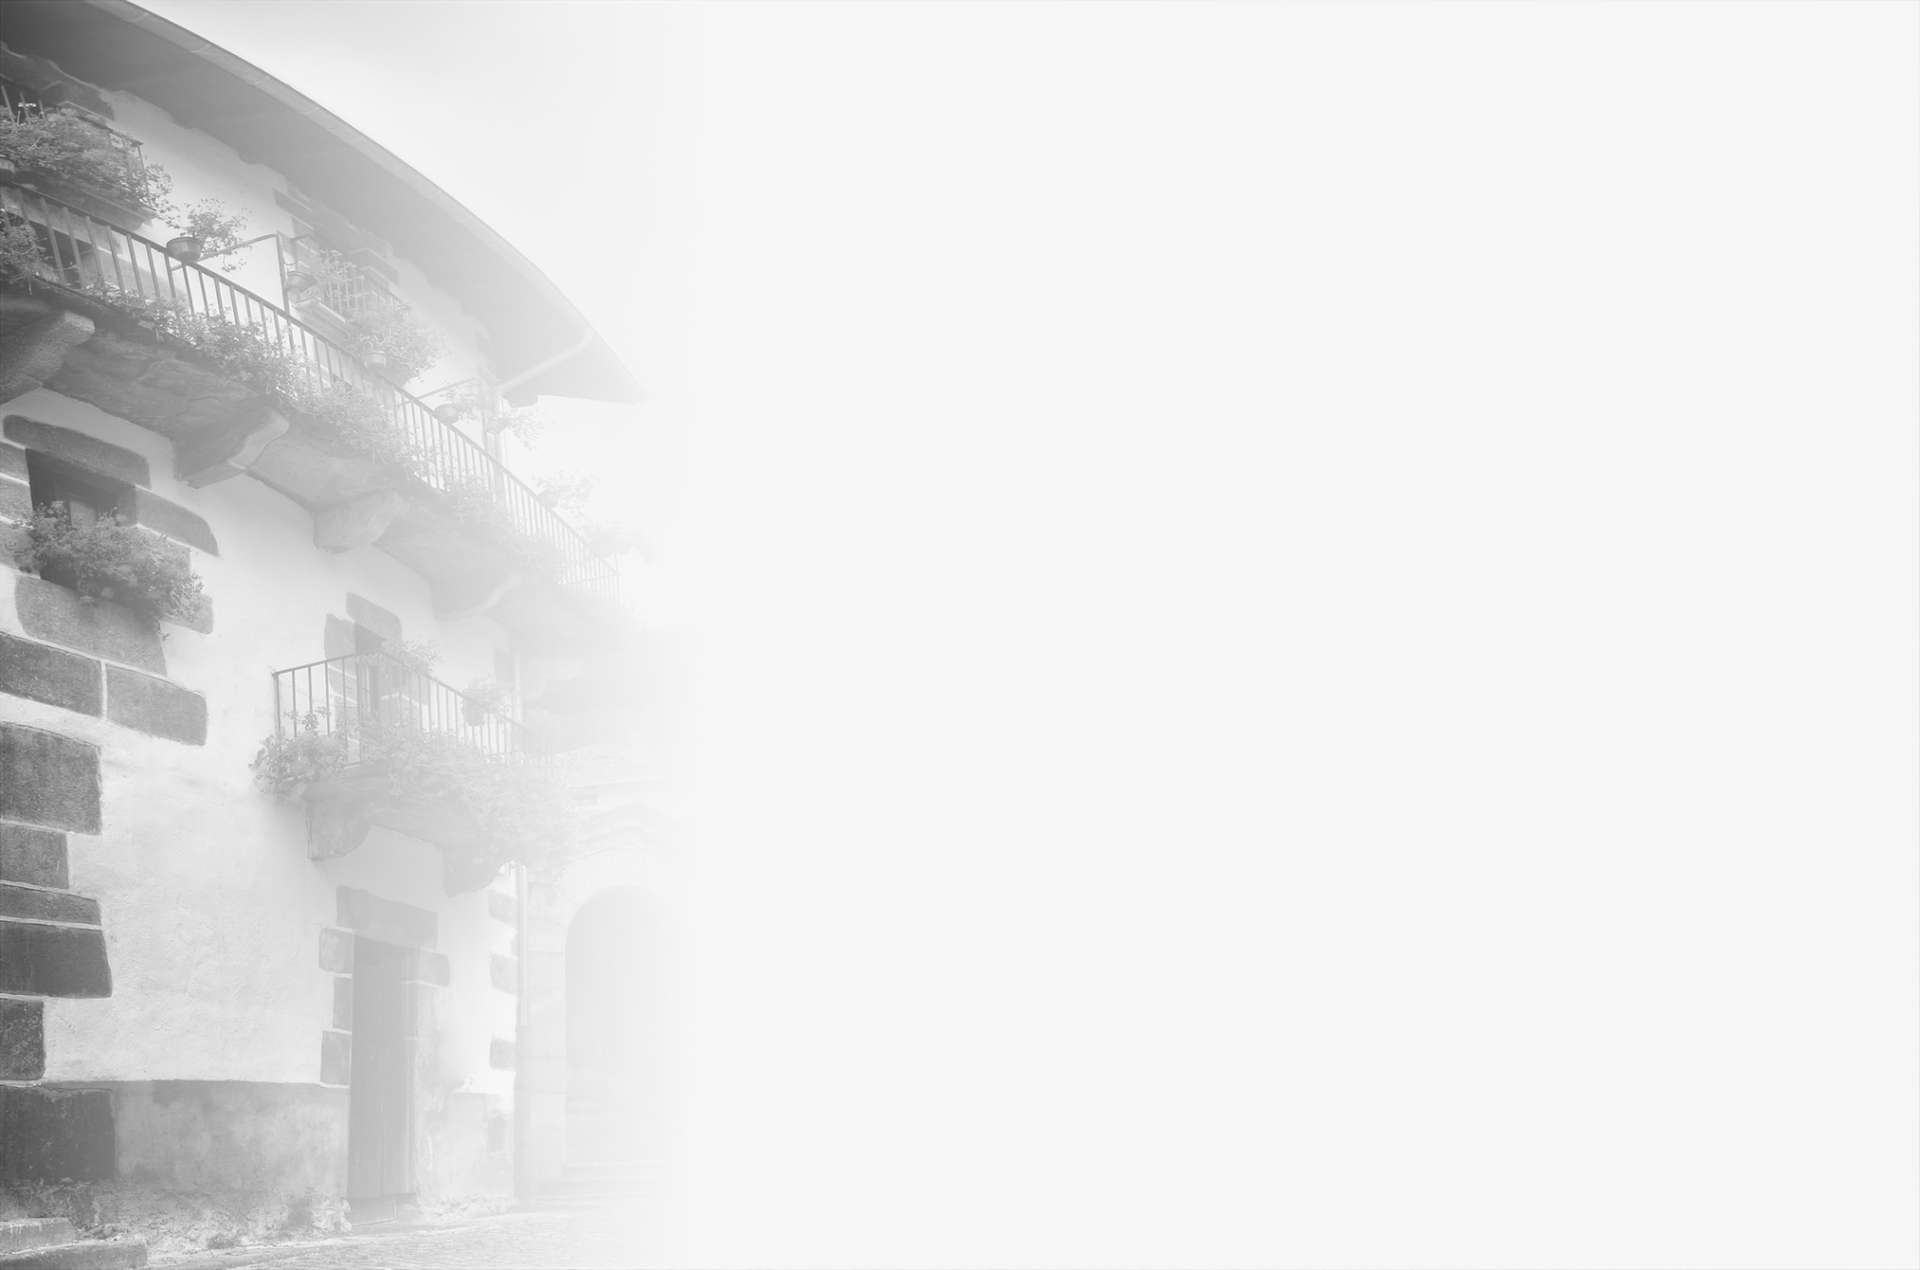
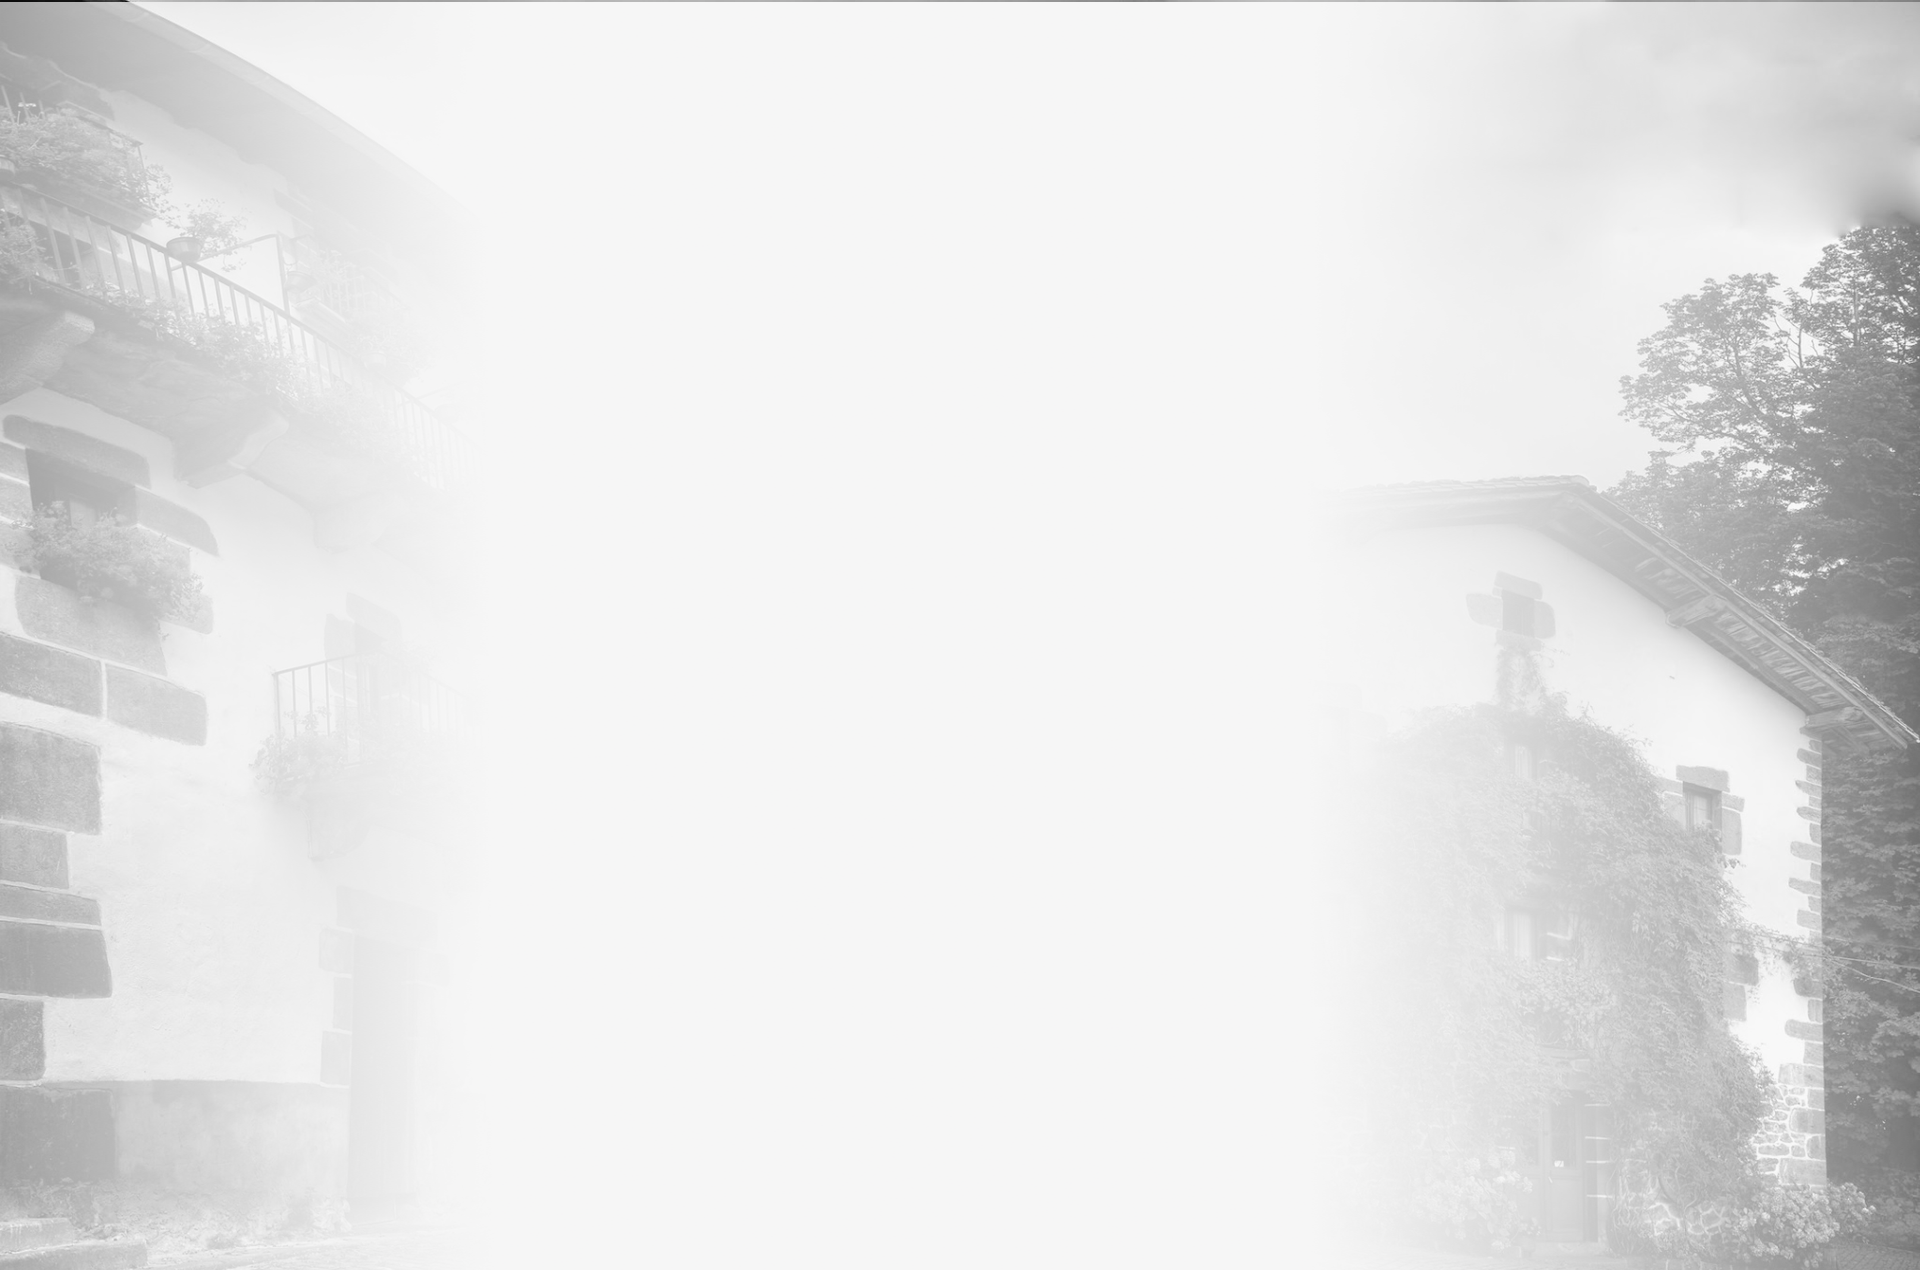
cambios

diff --git a/index.html b/index.html
@@ -124,7 +124,7 @@
 
                                 <!-- Home Image -->
                                 <div class="hero-image col-12 mb-30"><img src="assets/images/banner.png" alt=""></div>
-                                <div class="col-12 text-center">
+                                <div class="col-12 text-center main-title-home">
                                     <h3>SOMOS UN EQUIPO INTERDISCIPLINARIO DE ACOMPAÑAMIENTO <br> EN EL DISEÑO DE PLANES Y ESTRATEGIAS DE COMUNICACIÓN A MEDIDA.</h3>
                                 </div>
                                 <!-- Home Image
@@ -148,8 +148,8 @@
                                         alt=""></div> -->
 
                                 <!-- About Content -->
-                                <div class="about-content col-xl-7 col-12 mb-30 offset-xl-5">
-                                    <h3 class="block-title">¿QUÉ HACEMOS?</h3>
+                                <div class="about-content col-xl-7 col-12 mb-30 offset-xl-2">
+                                    <h3 class="block-title text-center">¿QUÉ HACEMOS?</h3>
                                     <p>
                                         Realizamos un servicio de planificación digital integral.
                                         Asesoramos en la construcción de un tejido Social Media que resalte la identidad
@@ -165,7 +165,7 @@
                 </div><!-- About Section End -->
 
                 <!-- Service Section Start -->
-                <div data-anchor="service" class="fp-section fp-auto-height-responsive" style="background-image: url('assets/images/bg/servicios.png');">
+                <div data-anchor="service" class="fp-section fp-auto-height-responsive" style="background-image: url('assets/images/bg/fondo_casa.png');">
                     <div
                         class="fp-section-inner pt-120 pt-lg-80 pt-md-80 pt-sm-80 pt-xs-50 pb-50 pb-lg-10 pb-md-10 pb-sm-10 pb-xs-20">
                         <div class="container">
@@ -175,24 +175,24 @@
                                     <div class="row">
 
                                         <!-- Service Item -->
-                                        <div class="service-item col-md-12 col-12 mb-40 mb-xs-30">
-                                            <h3>Empresas</h3>
-                                            <ul>
+                                        <div class="service-item col-md-12 col-12 mb-40 mb-xs-30 text-center">
+                                            <h3>Empresas e Instituciones</h3>
+                                            <ul class="fsize16">
                                                 <li>Planificación digital integral - Diagnóstico, diseño, ejecución,
                                                     monitoreo y evaluación de planes comunicacionales.</li>
-                                                <li>Community Management</li>
-                                                <li>Asesoramiento en imagen de marca</li>
-                                                <li>Confección de contenido PR</li>
-                                                <li>Prensa y difusión</li>
-                                                <li>Asesoramiento RRPP y relaciones institucionales</li>
-                                                <li>Reportes y análisis de métricas</li>
+                                                <li>Community Management.</li>
+                                                <li>Asesoramiento en imagen de marca.</li>
+                                                <li>Confección de contenido PR.</li>
+                                                <li>Prensa y difusión.</li>
+                                                <li>Asesoramiento RRPP y relaciones institucionales.</li>
+                                                <li>Reportes y análisis de métricas.</li>
                                             </ul>
                                         </div>
 
                                         <!-- Service Item -->
                                         <div class="service-item col-md-6 col-12 mb-40 mb-xs-30">
                                             <h3>Pequeños Emprendimientos</h3>
-                                            <p>
+                                            <p class="fsize16">
                                                 Diseñamos estrategias de comunicación que promuevan el crecimiento y
                                                 potencien el alcance de pequeños emprendimientos. Realizamos un servicio
                                                 personalizado y accesible para el desarrollo de cada proyecto.
@@ -202,7 +202,7 @@
                                         <!-- Service Item -->
                                         <div class="service-item col-md-6 col-12 mb-40 mb-xs-30">
                                             <h3>Comuniación política</h3>
-                                            <p>
+                                            <p class="fsize16">
                                                 Asesoramos en campañas de posicionamiento y comunicación de Gobierno.
                                                 Realizamos estrategias de comunicación participativa en permanente
                                                 diálogo con la comunidad. Innovación y creatividad apuntadas a

diff --git a/assets/css/style.css b/assets/css/style.css
@@ -1216,7 +1216,7 @@ nav.side-menu>ul>li {
 nav.side-menu>ul>li>a {
   display       : block;
   font-family   : "Open Sans", sans-serif;
-  font-size     : 14px;
+  font-size     : 15px;
   line-height   : 24px;
   font-weight   : 500;
   letter-spacing: 0.5px;
@@ -5138,4 +5138,13 @@ only screen and (max-width: 767px) {
 
 .color-var-4 .footer-search form button:hover {
   color: #e59701;
+}
+
+.fsize16{
+  font-size: 16px;
+}
+
+.main-title-home h3{
+  font-size: 18px;
+  line-height: 22px;
 }
